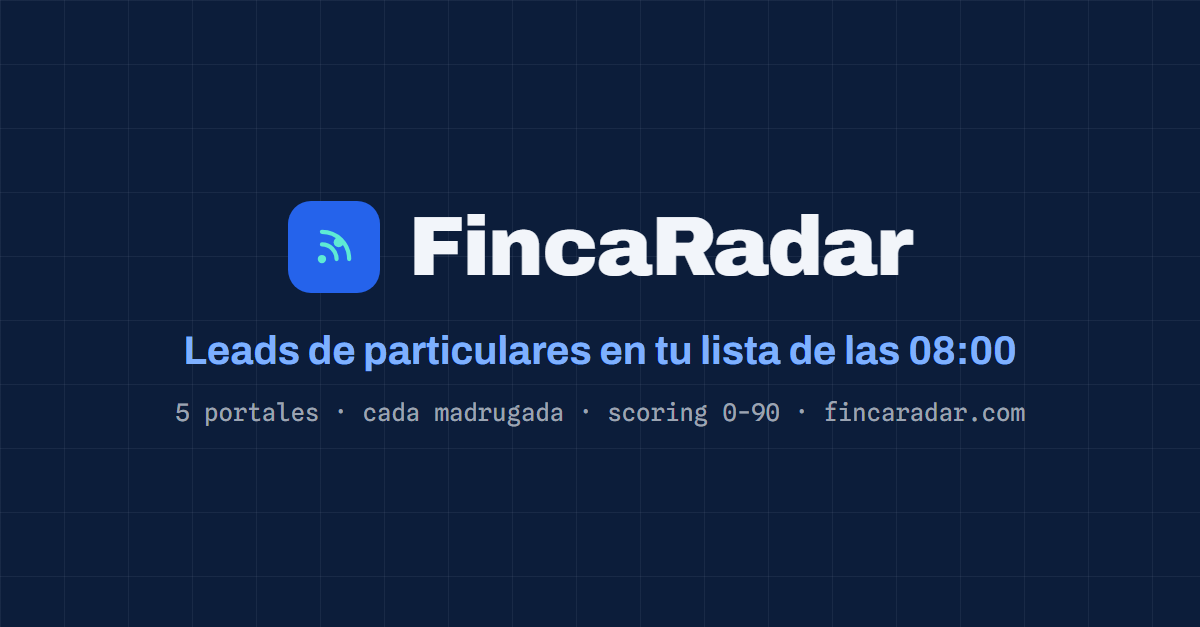
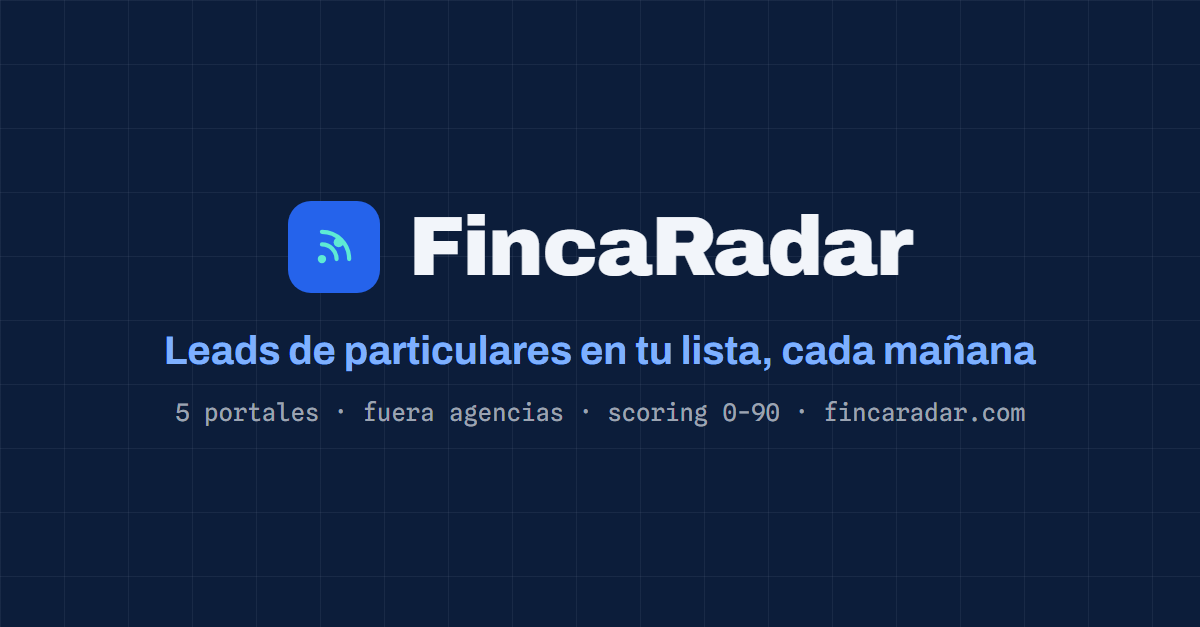
fix(video): miniatura mas clara, 'tu lista, cada mañana' en vez de 'las 08:00'

Changed region(s): [[0.1233, 0.5152, 0.8633, 0.6061], [0.2775, 0.6364, 0.4625, 0.697]]

diff --git a/video/src/Thumb.tsx b/video/src/Thumb.tsx
@@ -36,7 +36,7 @@ export const Thumb: React.FC = () => (
           marginTop: 36,
         }}
       >
-        Leads de particulares en tu lista de las 08:00
+        Leads de particulares en tu lista, cada mañana
       </div>
       <div
         style={{
@@ -46,7 +46,7 @@ export const Thumb: React.FC = () => (
           marginTop: 26,
         }}
       >
-        5 portales · cada madrugada · scoring 0-90 · fincaradar.com
+        5 portales · fuera agencias · scoring 0-90 · fincaradar.com
       </div>
     </AbsoluteFill>
   </AbsoluteFill>
